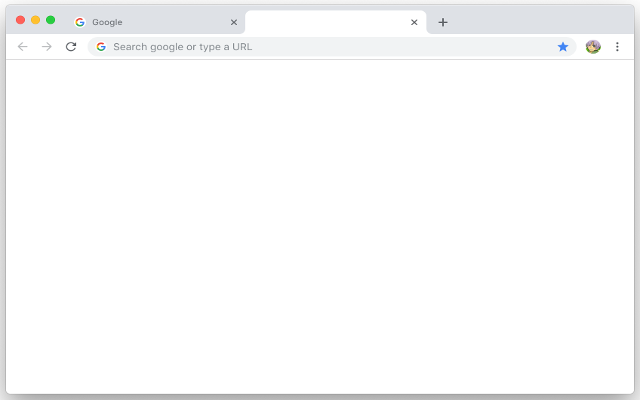
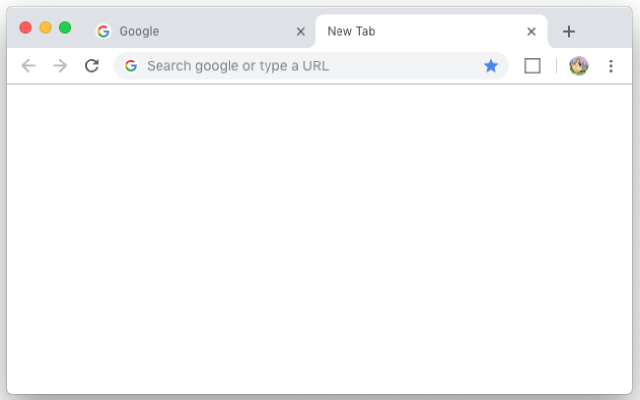
v0.1.1

diff --git a/empty.html b/empty.html
@@ -1,4 +1,4 @@
 <html>
-<head><title>&rlm;</title></head>
+<head><title>New Tab</title></head>
 <body></body>
 </html>

diff --git a/README.md b/README.md
@@ -1,5 +1,5 @@
 Make Chrome New Tab Empty.
 
-https://chrome.google.com/webstore/detail/empty-tab/llhogmeepabapcjcaoabgoehapkhigdl
+https://chrome.google.com/webstore/detail/blbojcmpnbomioidackkkehelffpllbp
 
 forked via: https://github.com/petrkle/empty-new-tab
